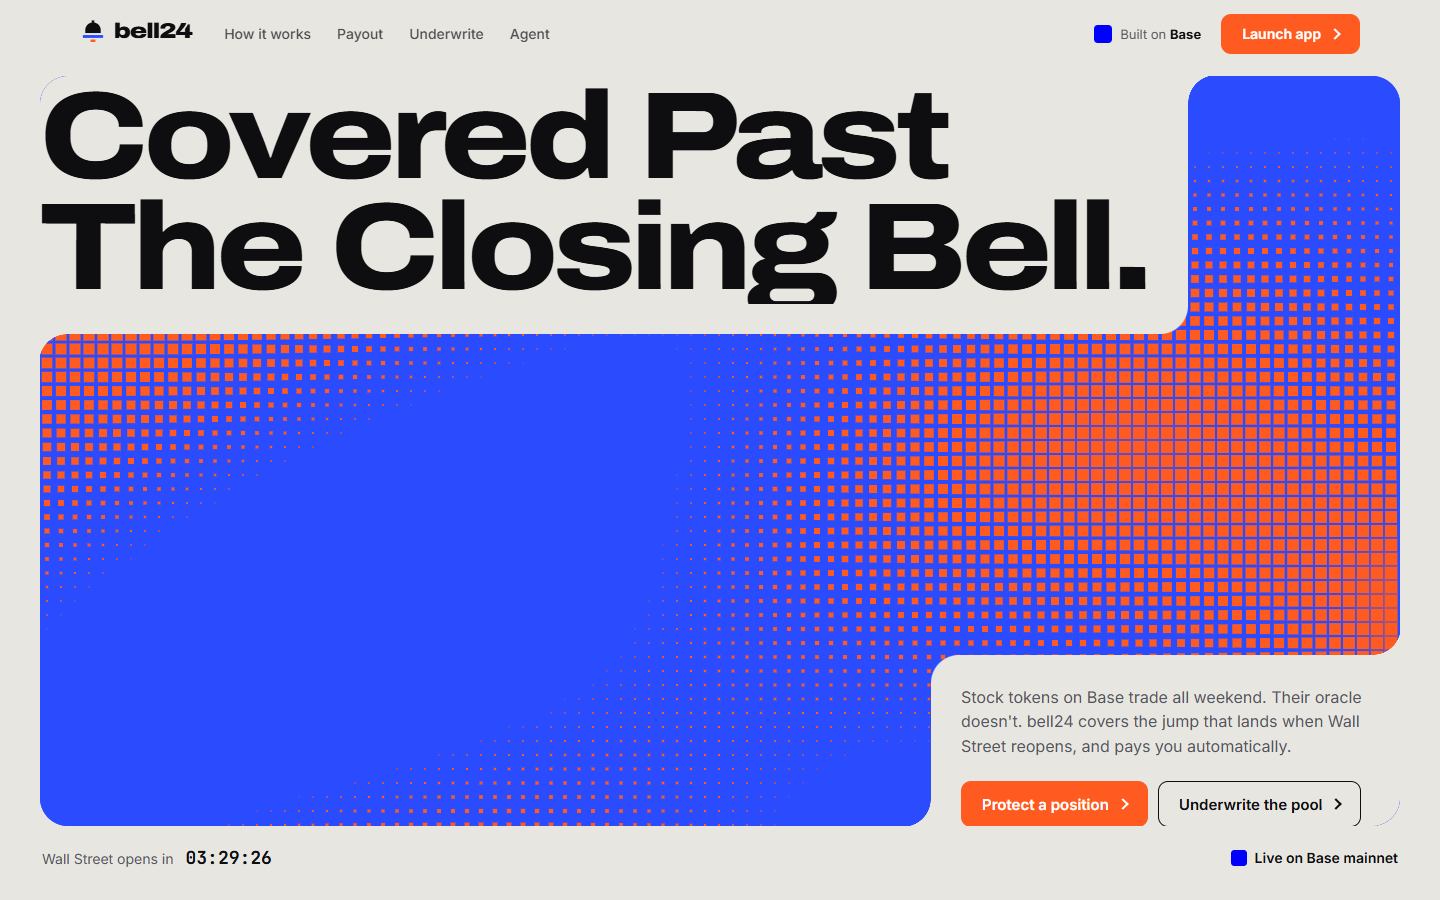
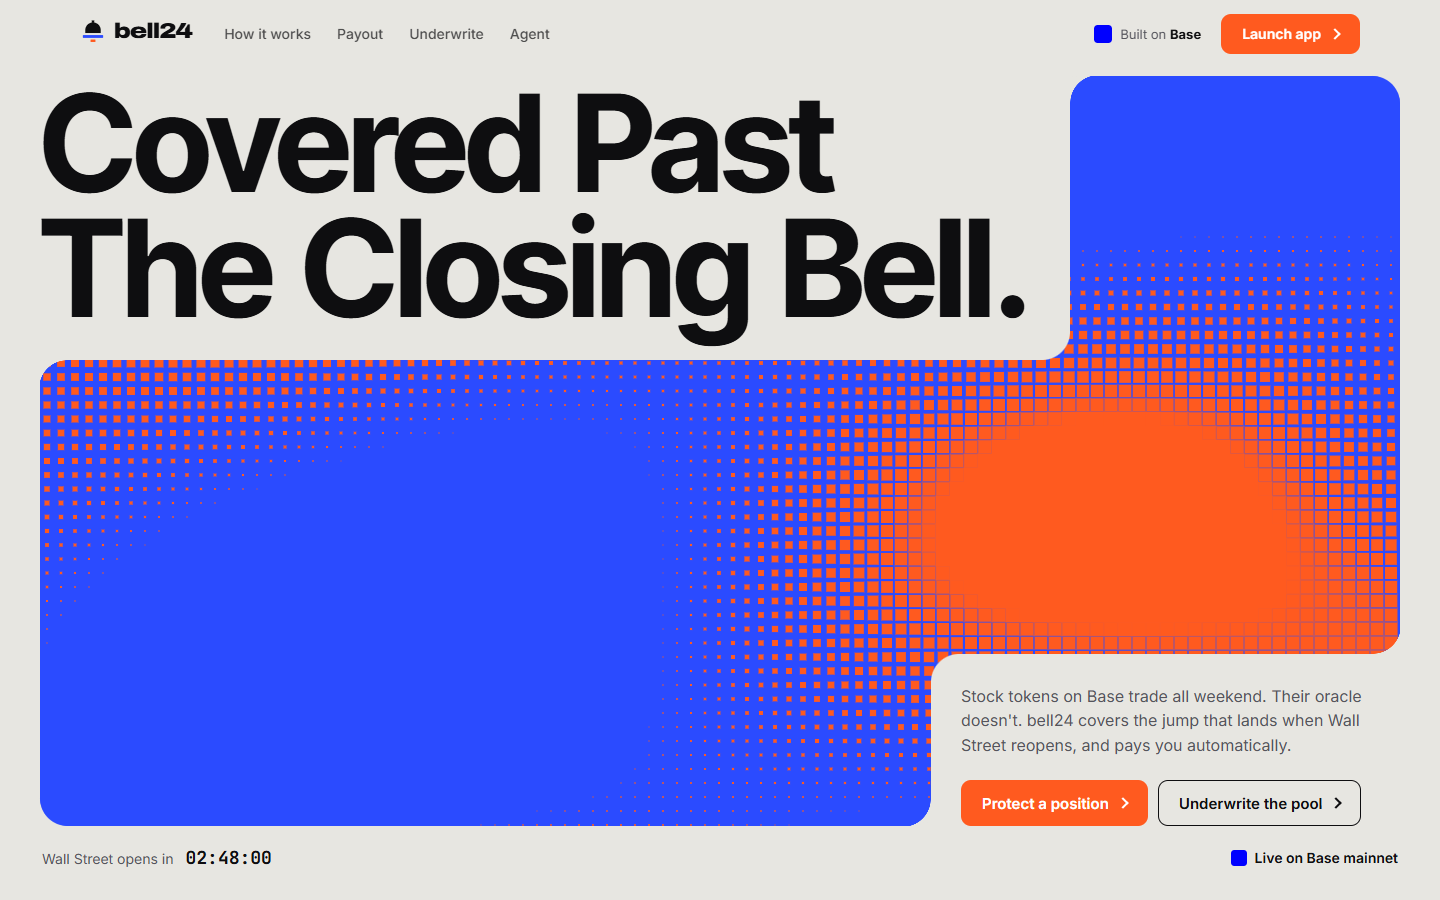
docs: refresh screens and hero word spacing

diff --git a/web/src/index.css b/web/src/index.css
@@ -299,7 +299,8 @@ button {
 .hero-title {
   font-size: clamp(52px, 9.4vw, 150px);
   font-weight: 700;
-  letter-spacing: -0.035em;
+  letter-spacing: -0.025em;
+  word-spacing: 0.04em;
   line-height: 0.92;
 }
 /* Room for descenders (g, p) inside SplitText's line masks, without changing the line spacing. */

diff --git a/README.md b/README.md
@@ -50,7 +50,16 @@ bell24 lets holders keep the position and cover the jump. Switch on cover before
   </tr>
 </table>
 
-<p align="center"><img src="docs/screens/app-receipt.png" alt="Monday receipt" width="70%"><br><b>Receipt.</b> The Monday card people share.</p>
+<table>
+  <tr>
+    <td width="50%"><img src="docs/screens/app-agent.png" alt="Pricing agent"></td>
+    <td width="50%"><img src="docs/screens/app-receipt.png" alt="Monday receipts"></td>
+  </tr>
+  <tr>
+    <td><b>Agent.</b> Friday risk note, pricing record and per-stock scores.</td>
+    <td><b>Receipts.</b> The Monday card people share, and past payouts.</td>
+  </tr>
+</table>
 
 ## Run it
 
@@ -65,7 +74,7 @@ Vite, React 19, TypeScript, GSAP (ScrollTrigger, SplitText) and Lenis. The app a
 ```
 web/src
   sections/      landing sections (Hero, Proof, Statement, GapScrub, Audience, Agent, Rules, Footer)
-  app/           /app screens (Home, Cover, Live, Vault, Receipt)
+  app/           /app: shell/ (sidebar, top bar), screens/ (Home, Cover, Live, Vault, Agent, Receipts), ui/ (charts, tabs, switch, dialogs)
   components/    Logo, Halftone, Countdown, SplitReveal, Magnetic, Marquee, RollingNumber
   market.ts      market clock (New York hours) and the payout and premium maths
   motion.ts      one Lenis instance on GSAP's ticker
